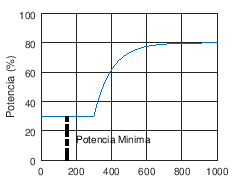
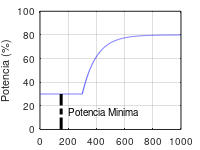
Update de las imagenes de la app y del .pro

Changed region(s): [[0.0, 0.0533, 0.96, 0.9867]]

diff --git a/simulations/app_graph.m b/simulations/app_graph.m
@@ -6,19 +6,19 @@ x = 1:1000;
 yestacionario = (1-exp(-x/100)) * 50;
 
 figure(1)
-plot(x, yestacionario);
+plot(x, yestacionario, "color", "b");
 line ([0 1000], [50 50], "color", "k", "linewidth", 3, "linestyle", "-.");
 grid on;
 axis([0, 1000, 0, 100]);
 ylabel("Potencia (%)");
 text (300, 57, ['Potencia Estacionaria']);
 print("-S1200,800", "potenciaEstacionaria.png");
-print("-S240,180", "potenciaEstacionariaChica.png");
+print("-S200,150", "potenciaEstacionariaChica.png");
 
 figure(2)
 yminimo = ones(size(x)) * 30;
 yminimo(301:1000) += yestacionario(1:700);
-plot(x, yminimo);
+plot(x, yminimo, "color", "b");
 line ([150 150], [0 30], "color", "k", "linewidth", 3, "linestyle", "-.");
 hold on;
 grid on;
@@ -26,17 +26,29 @@ axis([0, 1000, 0, 100]);
 ylabel("Potencia (%)");
 text (200, 15, ['Potencia Minima']);
 print("-S1200,800", "potenciaMinima.png");
-print("-S240,180", "potenciaMinimaChica.png");
+print("-S200,150", "potenciaMinimaChica.png");
 
 figure(3)
 ycorte = (1-exp(-x/100)) * 400;
 ycorte(400:1000) = -0.4 * (x(400:1000) - 400) + ycorte(400);
-plot(x, ycorte);
+plot(x, ycorte, "color", "b");
 line([0 1000], [ycorte(400) ycorte(400)], "color", "k", "linewidth", 3, "linestyle", "-.");
 hold on;
 grid on;
 axis([0, 1000, 0, 500]);
 ylabel("Temperatura (°C)")
-text (500, 450, ['Temperatura de corte']);
+text (200, 450, ['Temperatura de corte']);
 print("-S1200,800", "temperaturaCorte.png");
-print("-S240,180", "temperaturaCorteChica.png");
+print("-S200,150", "temperaturaCorteChica.png");
+
+figure(4)
+yestacionario = (1-exp(-x/100)) * 750;
+plot(x, yestacionario, "color", "b");
+line ([0 1000], [800 800], "color", "b", "linewidth", 1, "linestyle", "-.");
+line ([700 700], [750 800], "color", "k", "linewidth", 2, "linestyle", "-");
+grid on;
+axis([0, 1000, 0, 1000]);
+ylabel("Temperatura (°C)");
+text (200, 700, ['Sensibilidad de temperatura']);
+print("-S1200,800", "sensibilidad.png");
+print("-S200,150", "sensibilidadChica.png");
